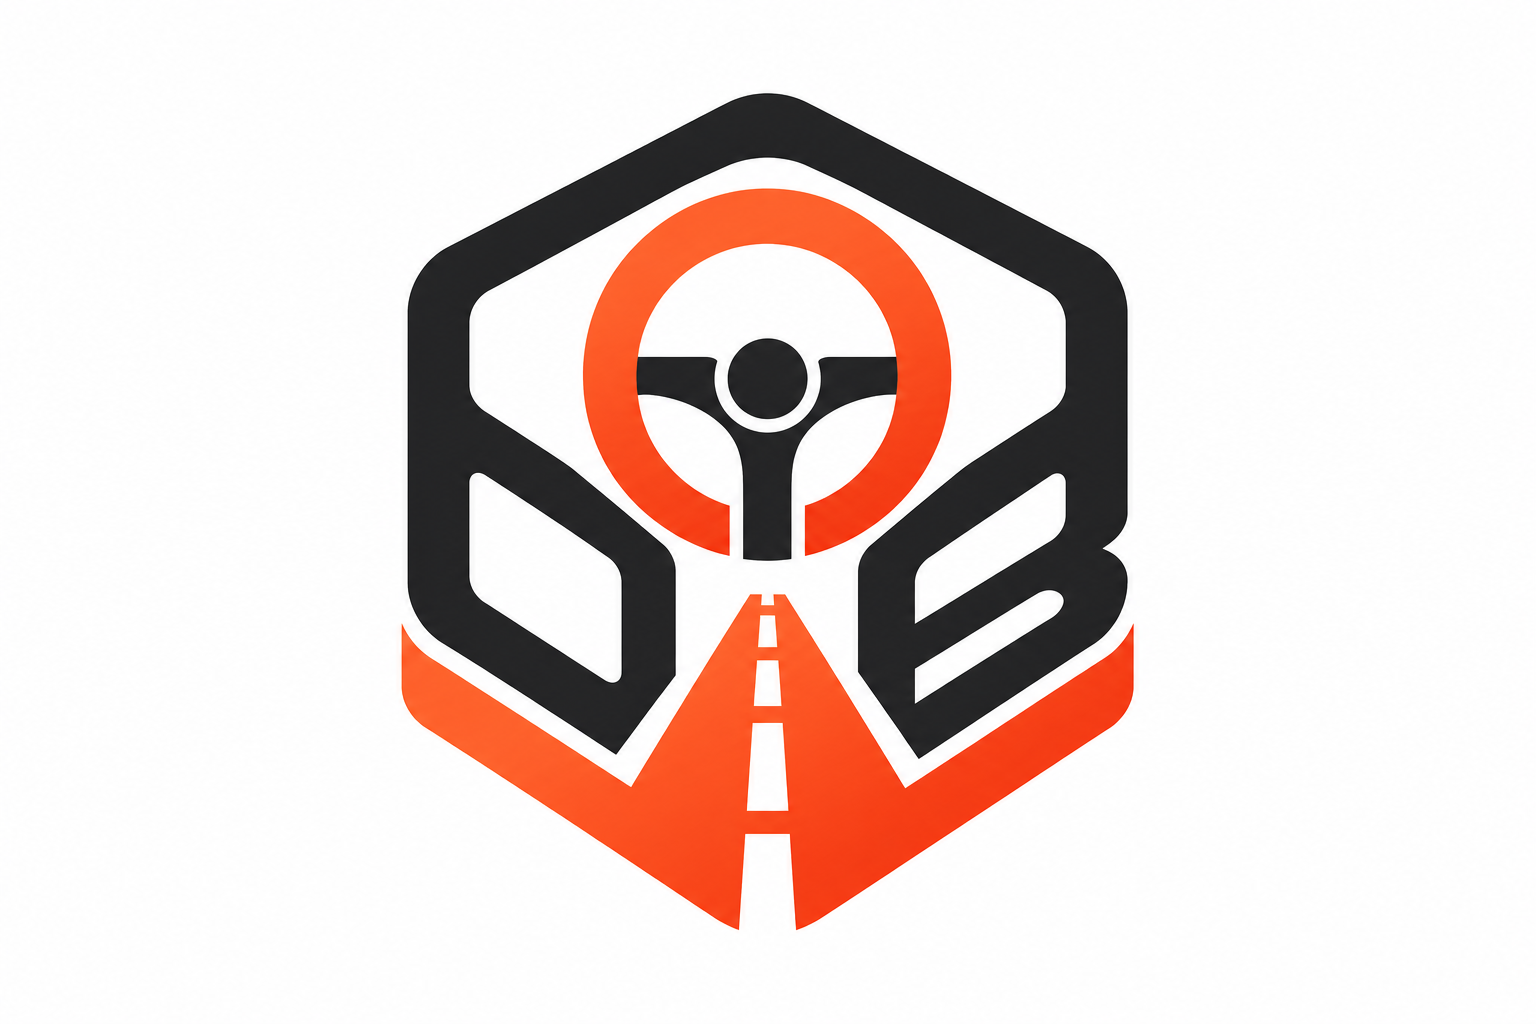
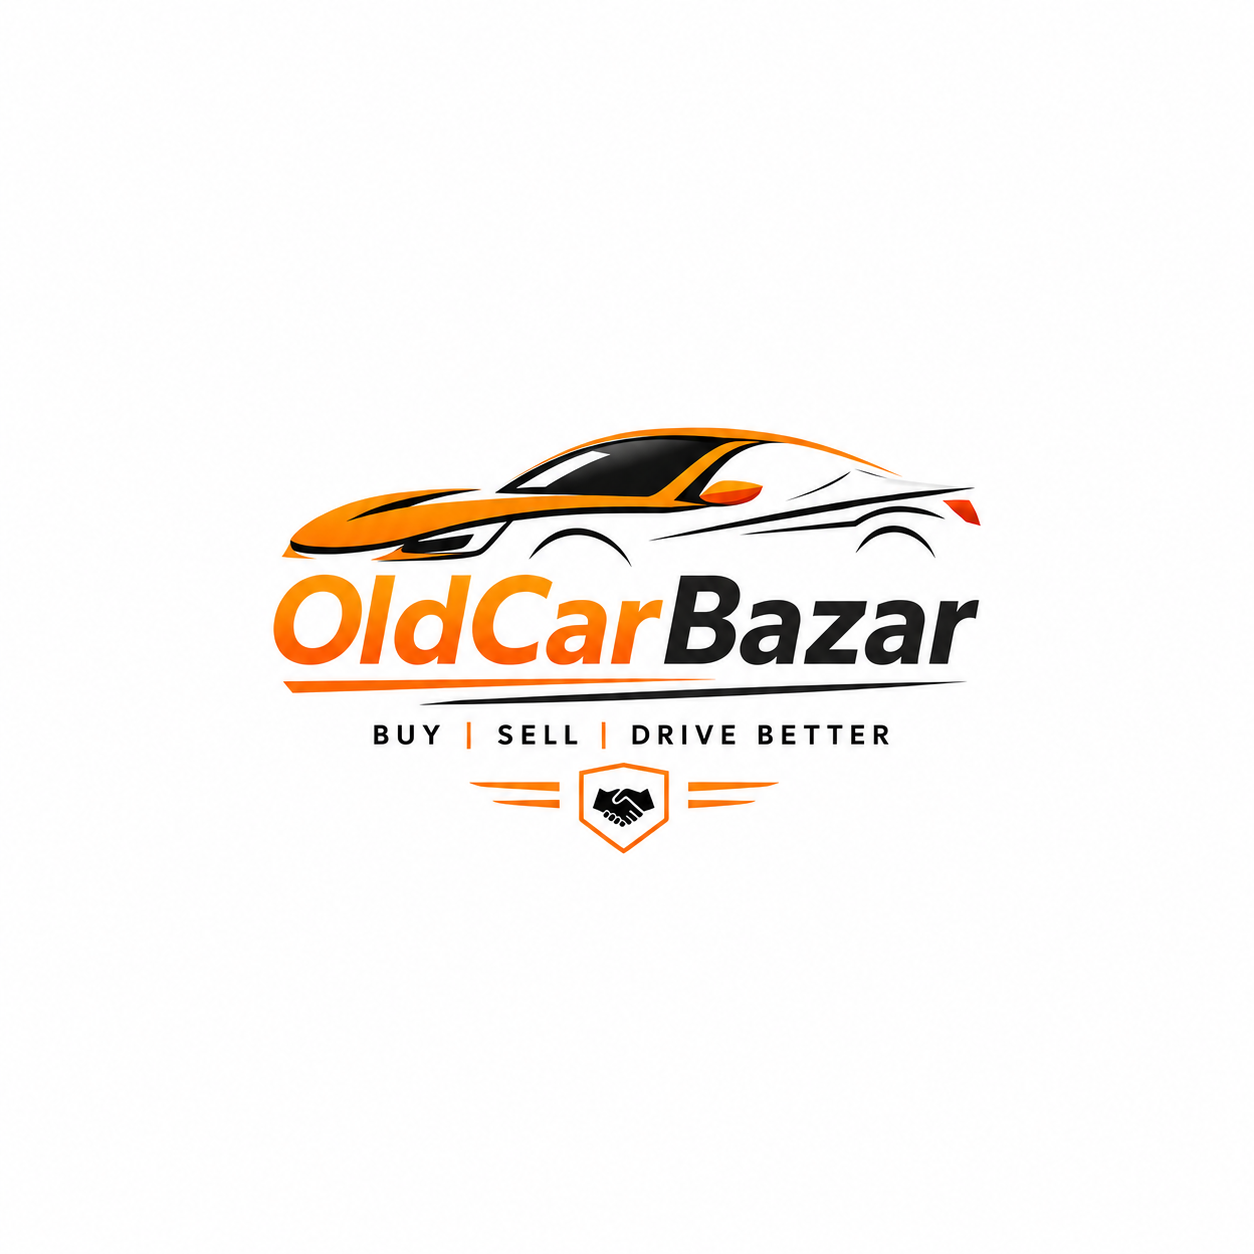
Added Google Search Console verification fiileeew

Changed region(s): [[0.2177, 0.0938, 0.7775, 0.9062]]

diff --git a/src/components/Header.tsx b/src/components/Header.tsx
@@ -132,31 +132,15 @@ export default function Header() {
         {/* Top bar */}
         <motion.div className="mx-auto flex max-w-[1280px] items-center gap-2 px-3 py-2.5 sm:gap-3 sm:px-4 sm:py-3 lg:gap-4 lg:px-6">
           <motion.div whileHover={{ scale: 1.02 }} whileTap={{ scale: 0.98 }}>
-            <Link
-              href="/"
-              aria-label="Old Car Bazar — Home"
-              className="flex shrink-0 items-center gap-2 sm:gap-2.5"
-            >
+            <Link href="/" className="flex shrink-0 items-center">
               <Image
-                src="/ocb-logo-icon.png"
-                alt="Old Car Bazar logo"
-                width={56}
-                height={56}
-                className="h-9 w-9 shrink-0 object-contain sm:h-12 sm:w-12"
+                src="/logocarr.png"
+                alt="Old Car Bazar"
+                width={220}
+                height={60}
+                className="h-10 w-auto object-contain sm:h-14"
                 priority
               />
-              <span className="flex flex-col leading-none">
-                <span className="text-base font-extrabold tracking-tight text-gray-900 sm:text-xl">
-                  <span className="bg-gradient-to-r from-[#ff7a47] to-[#e54d24] bg-clip-text text-transparent">
-                    Old
-                  </span>
-                  <span className="text-gray-900">Car</span>
-                  <span className="text-[#f75d34]">Bazar</span>
-                </span>
-                <span className="mt-0.5 hidden text-[9px] font-semibold uppercase tracking-[0.18em] text-gray-500 sm:block">
-                  Buy · Sell · Drive Better
-                </span>
-              </span>
             </Link>
           </motion.div>
 

diff --git a/src/app/layout.tsx b/src/app/layout.tsx
@@ -71,12 +71,12 @@ const organizationLd = {
   url: SITE_URL,
   logo: {
     "@type": "ImageObject",
-    url: `${SITE_URL}/ocb-logo-icon.png`,
+    url: `${SITE_URL}/logocar.png`,
     width: 1024,
     height: 1024,
     caption: "Old Car Bazar",
   },
-  image: `${SITE_URL}/ocb-logo-icon.png`,
+  image: `${SITE_URL}/logocarr.png`,
   description:
     "India's marketplace for buying & selling used cars with direct owner contact, free valuation, car loan, and verified listings.",
   slogan: "Buy. Sell. Drive Better.",

diff --git a/src/lib/ogTemplate.tsx b/src/lib/ogTemplate.tsx
@@ -6,7 +6,7 @@ export const OG_CONTENT_TYPE = "image/png";
 
 export async function loadLogoDataUrl(): Promise<string> {
   const buffer = await readFile(
-    join(process.cwd(), "public", "ocb-logo-icon.png")
+    join(process.cwd(), "public", "logocar.png")
   );
   const base64 = buffer.toString("base64");
   return `data:image/png;base64,${base64}`;